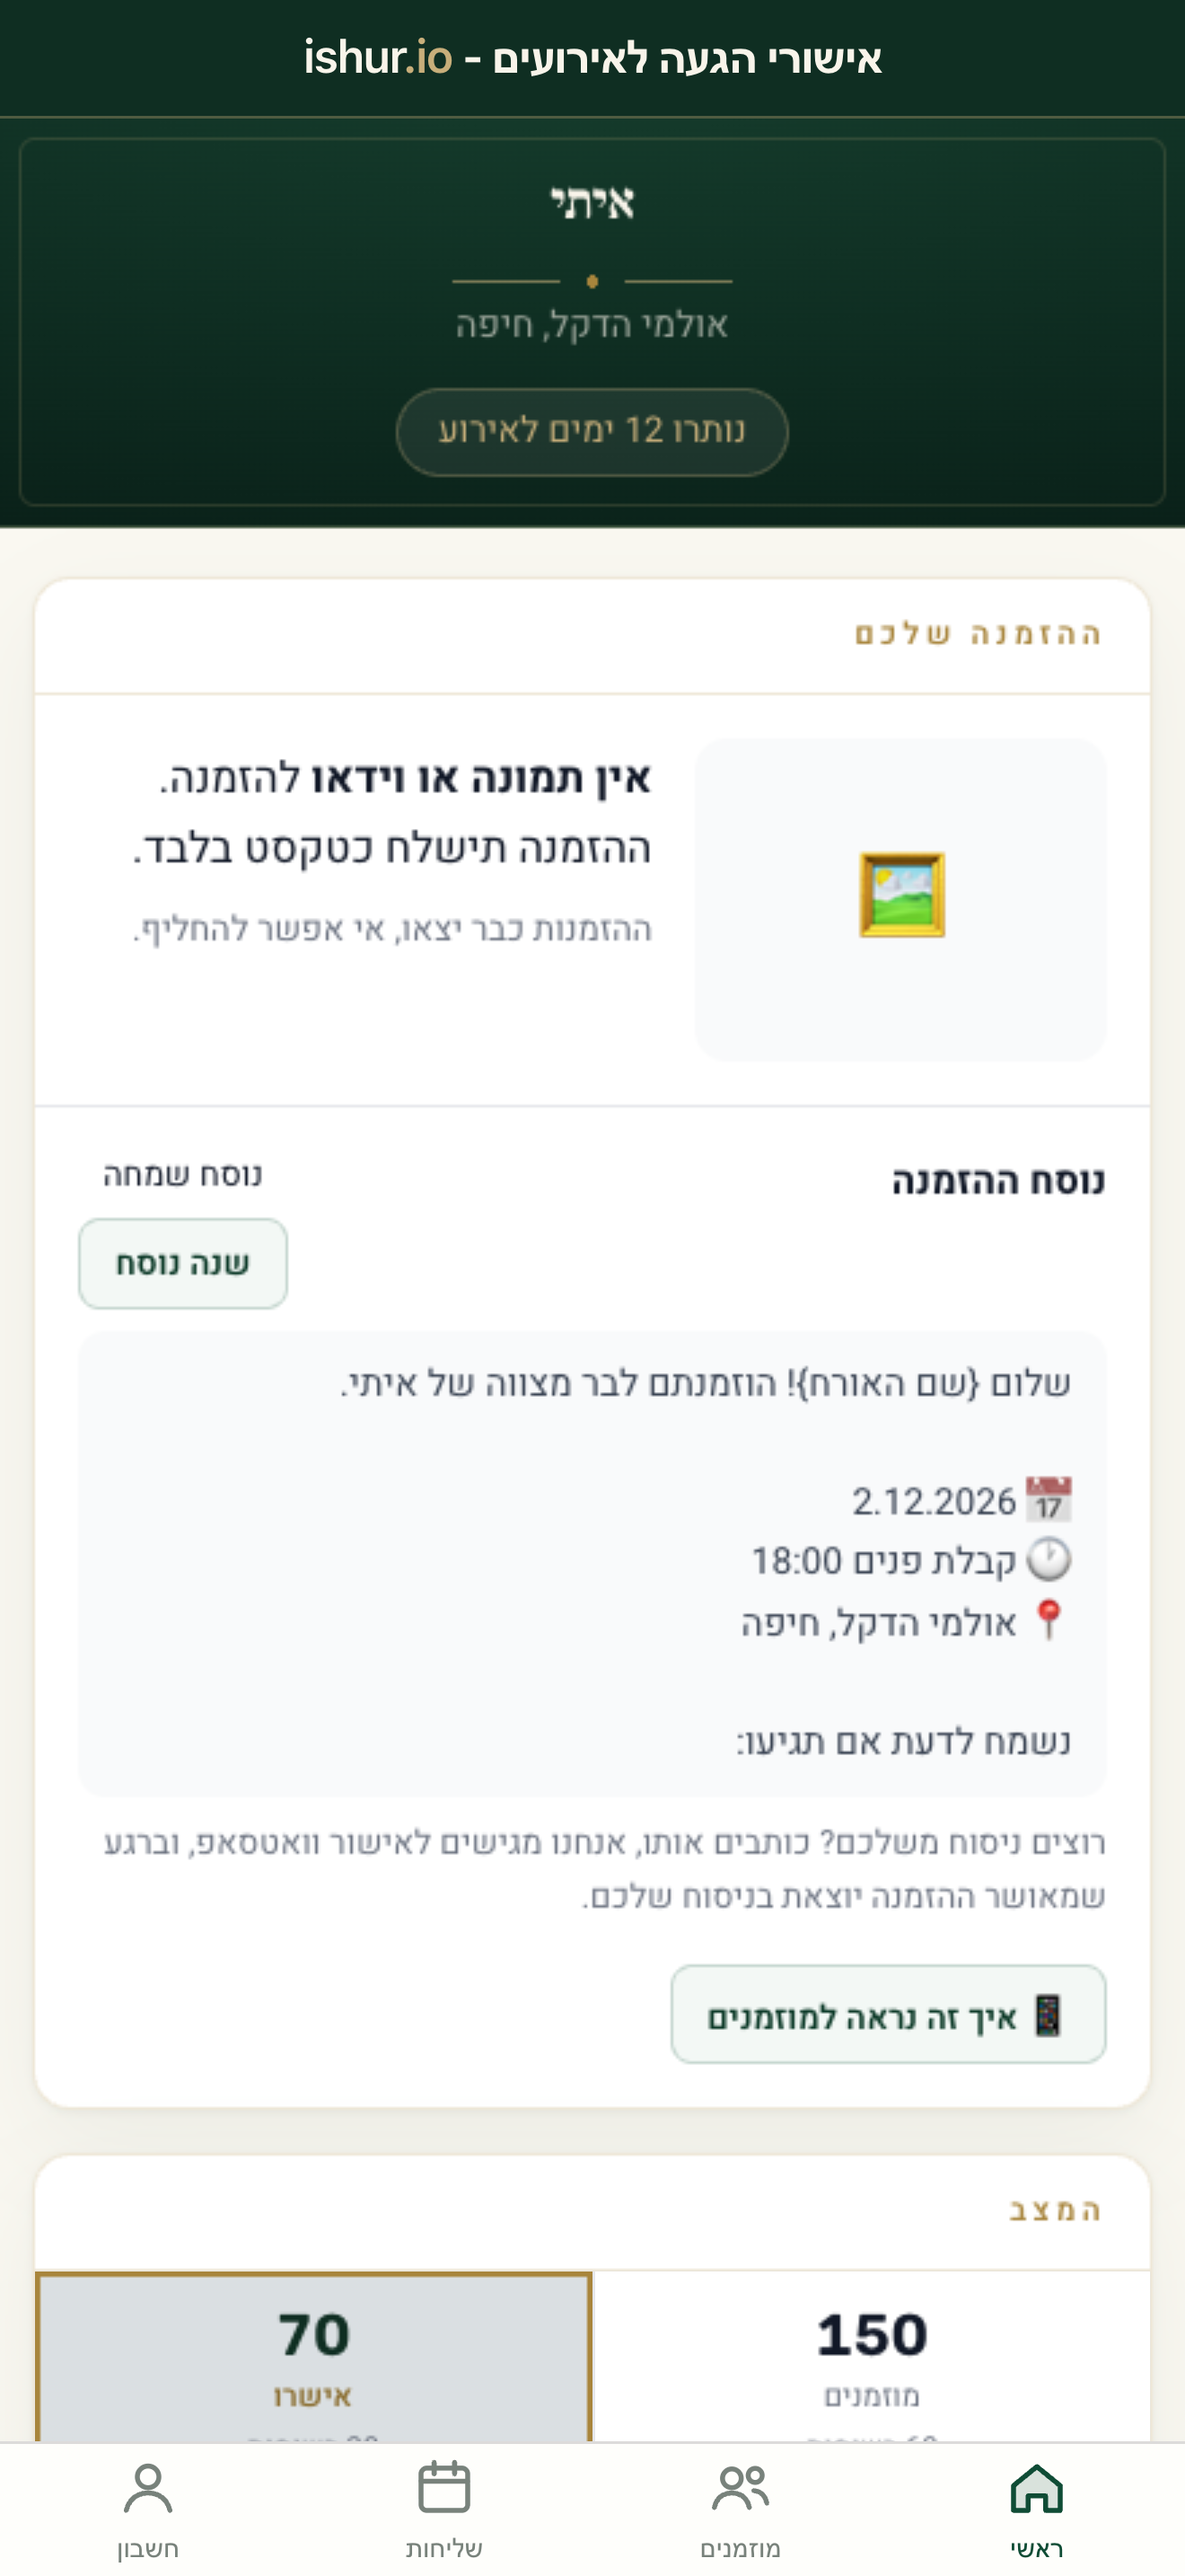
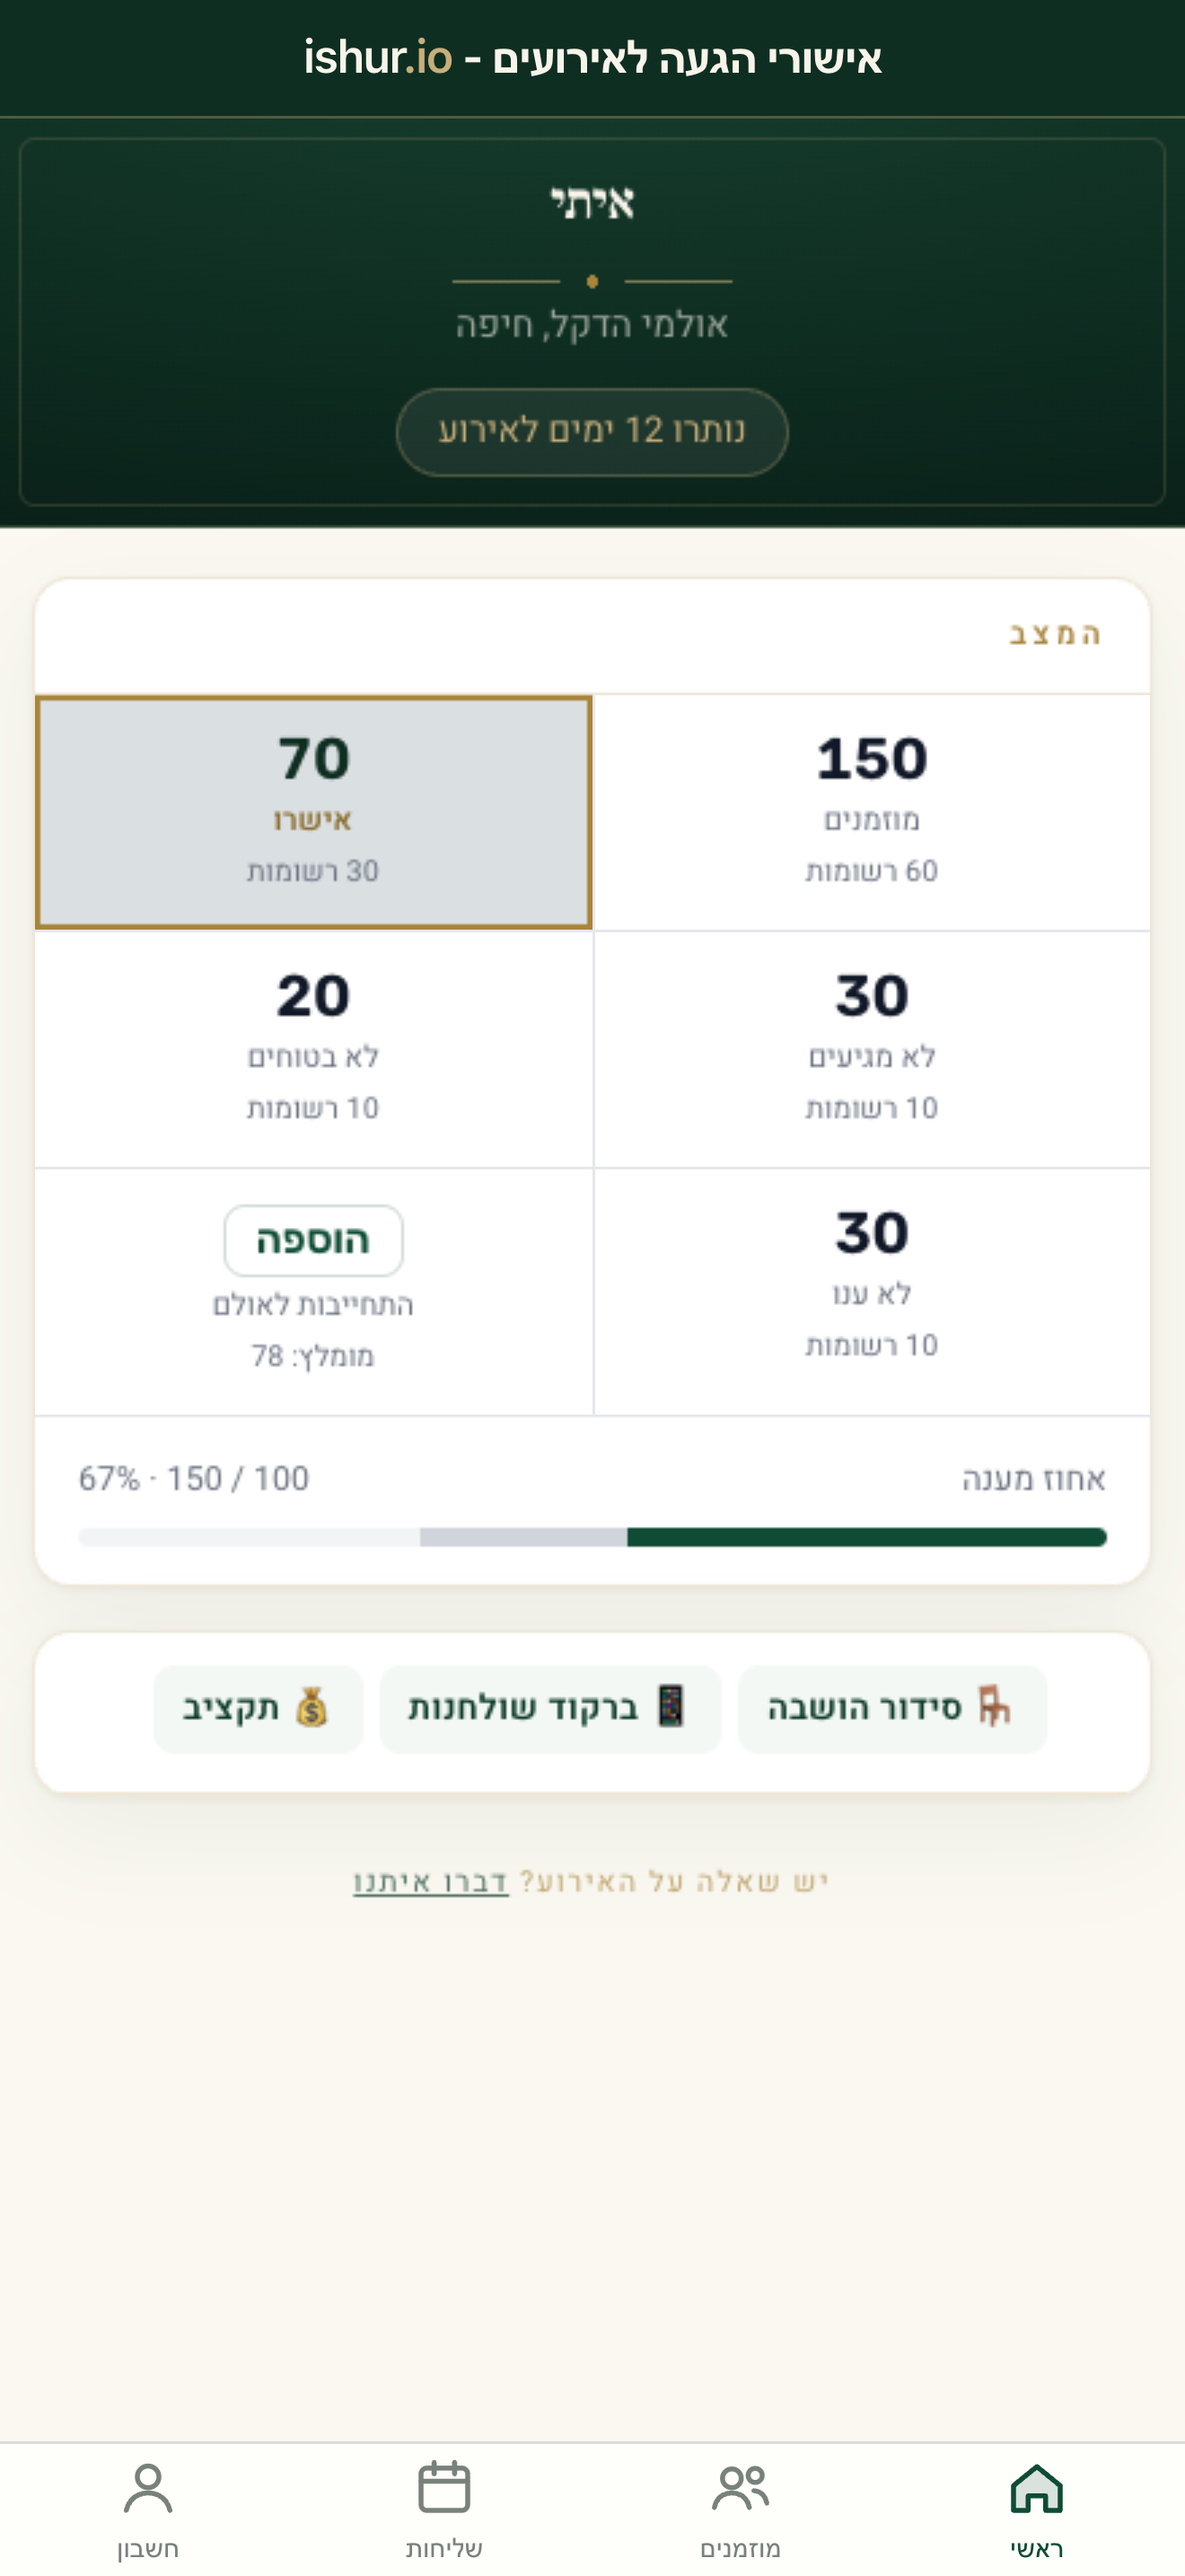
client-app: store screenshots and texts for the four-tab layout; runbook release sections (signing, push keys, switch, TestFlight, Play closed test, rejections)

diff --git a/app/RUNBOOK.md b/app/RUNBOOK.md
@@ -76,6 +76,50 @@ npm run env:staging             # ALWAYS switch back before committing
   answers the same from both (a test compares them). Events already in KV are not copied; they age out in 400 days.
 - Not there yet: a screen to read the report (today it is JSON); purchase events (names reserved, nothing sends them).
 
-## Not written yet (filled in as each loop is done)
-Signing and certificates, push keys (APNs .p8, Firebase), the Worker push switch `cfg:app_push`, the reviewer demo
-client, TestFlight, Play closed test, what to do on a rejection.
+## Signing and the first upload to Apple (written 21/11, before the account was active: steps not yet run)
+1. Xcode → Settings → Accounts: the Apple account of the developer program is signed in.
+2. `ios/App/App.xcodeproj` → target App → Signing & Capabilities: tick "Automatically manage signing", Team = the
+   individual team. Bundle identifier stays `io.ishur.client` (cannot change after the first upload).
+3. Same screen → "+ Capability" → Push Notifications (Xcode registers it on the App ID).
+4. Build number: raise it for every upload (`CURRENT_PROJECT_VERSION`); the version (`MARKETING_VERSION`) only for a
+   new store release.
+5. `npm run env:production && npx cap sync ios`, then in Xcode: device "Any iOS Device" → Product → Archive →
+   Distribute App → App Store Connect → Upload. `npm run env:staging` afterwards; `git diff www/env.js` must be empty.
+6. The build appears in App Store Connect → TestFlight after processing (usually under an hour). Answer the export
+   question: the app uses only standard HTTPS, so "None of the algorithms mentioned above".
+
+## Push keys
+- iPhone (APNs): developer.apple.com → Certificates, IDs & Profiles → Keys → "+" → tick Apple Push Notifications
+  service → download the `.p8` (downloads once only). Put it in the Worker:
+  `npx wrangler secret put APNS_KEY_P8 --env staging < AuthKey_XXXX.p8`, then `APNS_KEY_ID` and `APNS_TEAM_ID` the
+  same way. Without `--env staging` for production. Test: `POST /api/app/push-test {admin_key, phone}`.
+- Android (Firebase): not built yet. The Worker needs a service-account key and a sender written for FCM HTTP v1.
+
+## The push switch
+KV `cfg:app_push` = `1` turns sending on. Staging: `npx wrangler kv key put --env staging --binding RATE cfg:app_push 1`.
+Production stays off until Richard says so.
+
+## TestFlight (iPhone testers)
+- Internal testers (people on the developer account): no review, the build is available as soon as it is processed.
+- External testers (anyone by email or public link): the first build goes through a short Beta App Review.
+- Testers install the TestFlight app, open the invitation on the phone, install ishur.
+
+## Google Play closed test
+Personal accounts made after 13/11/2023 must run a closed test with at least 12 testers opted in for 14 days in a
+row before production access (Google's page, read 20/11/2026). Testers need a Google account; add their emails to
+the closed-test list, send them the opt-in link, and they must keep the app installed for the 14 days.
+
+## When Apple rejects
+1. Read the message in App Store Connect → the version → Resolution Center. It names the guideline number.
+2. The usual ones for this app: 2.1 (demo account did not work: check the reviewer demo client on production),
+   4.2 (looks like a website: point to notifications, offline copy, help, calendar), 5.1.1 (sign-in or deletion),
+   3.1.1 (anything that looks like buying: there must be no price, no buy button and no "buy on the website" text).
+3. Fix, raise the build number, upload, and reply in the Resolution Center with what changed. Or, if the reviewer
+   misread, reply with an explanation and screenshots without a new build.
+
+## The reviewer demo client
+Not built yet (spec R11). Needs: a fixed phone and code on production that never expire, invented guests, no
+message ever sent from it, and not blocked by the sign-in limits.
+
+## Not written yet
+Android build and signing (no Android tools on this Mac yet), FCM sender.

diff --git a/app/store/listing.md b/app/store/listing.md
@@ -20,12 +20,11 @@
   האפליקציה של לקוחות ishur.io: שירות אישורי הגעה לאירועים בוואטסאפ.
 
   אחרי שהזמנתם את השירות, נכנסים עם הטלפון והקוד שקיבלתם ורואים את האירוע שלכם:
-  · כמה מגיעים, כמה אישרו, מי לא בטוח ומי עוד לא ענה
-  · רשימת המוזמנים המלאה, עם חיפוש לפי שם
-  · למי ההזמנה לא הגיעה, ולמה
-  · לוח השליחות: מה יוצא למוזמנים ומתי, עם אפשרות לשנות תאריך
-  · הזמנה עם תמונה ונוסח משלכם, והוספת מוזמנים
-  · קישור אישור הגעה לשיתוף בקבוצות
+  · ראשי: כמה מגיעים, כמה אישרו, מי לא בטוח ומי עוד לא ענה, וכמה מנות כדאי להתחייב לאולם
+  · סידורי הושבה, ברקוד שולחנות ומעקב תקציב
+  · מוזמנים: הרשימה המלאה עם חיפוש, רשימה להדפסה, החלפת רשימה והוספת מוזמנים
+  · שליחות: מה יוצא למוזמנים ומתי, ההזמנה והנוסח, וקישור אישור הגעה לשיתוף בקבוצות
+  · חשבון: כל האירועים שלכם ומה כלול בחבילה
 
   התראות, אם תרצו: כשמוזמן עונה, סיכום קצר כל בוקר, וכשהזמנה לא הגיעה. בלי התראות בלילה.
 
@@ -43,12 +42,11 @@
   The app for ishur.io clients: WhatsApp RSVP management for events in Israel.
 
   Sign in with the phone number and code you received when you ordered the service, and follow your event:
-  · How many are coming, who confirmed, who is unsure and who has not answered
-  · The full guest list, searchable by name
-  · Which invitations did not arrive, and why
-  · The send schedule: what goes out to guests and when, with the option to move a date
-  · Your invitation image and wording, and adding guests
-  · A shareable RSVP link for groups
+  · Home: how many are coming, who confirmed, who is unsure, who has not answered, and how many to commit to the venue
+  · Seating plan, table QR codes and budget
+  · Guests: the full list with search, a printable list, replacing the list and adding guests
+  · Sends: what goes out to guests and when, your invitation and wording, and a shareable RSVP link for groups
+  · Account: all your events and what your package includes
 
   Optional notifications: when a guest answers, a short summary every morning, and when an invitation did not arrive. Never at night.
 
